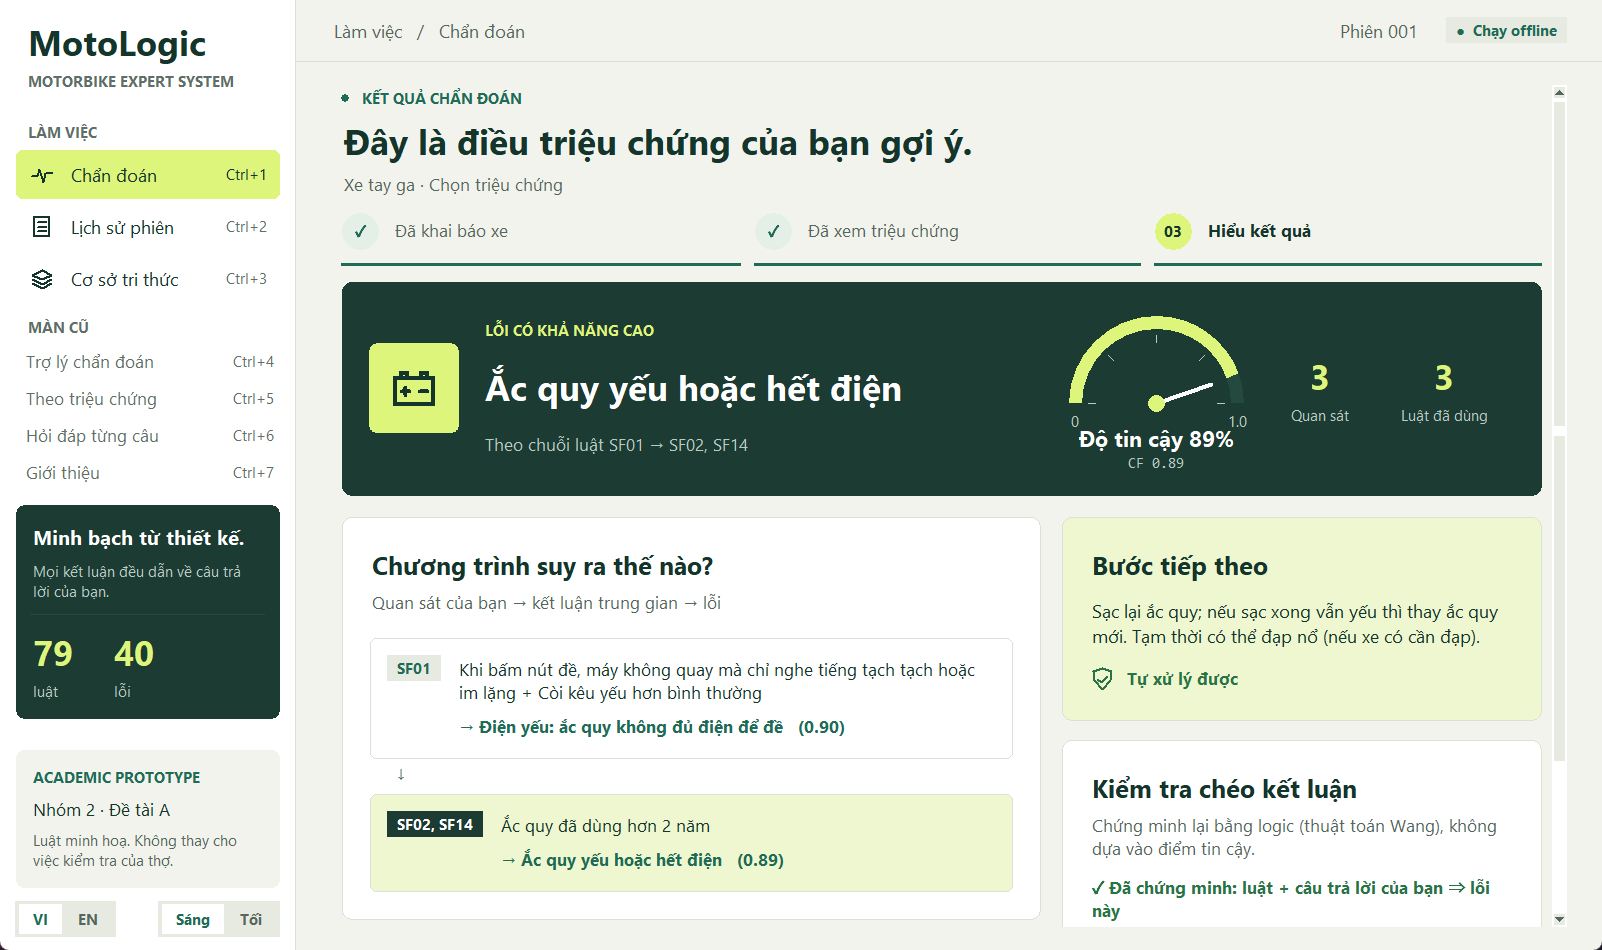
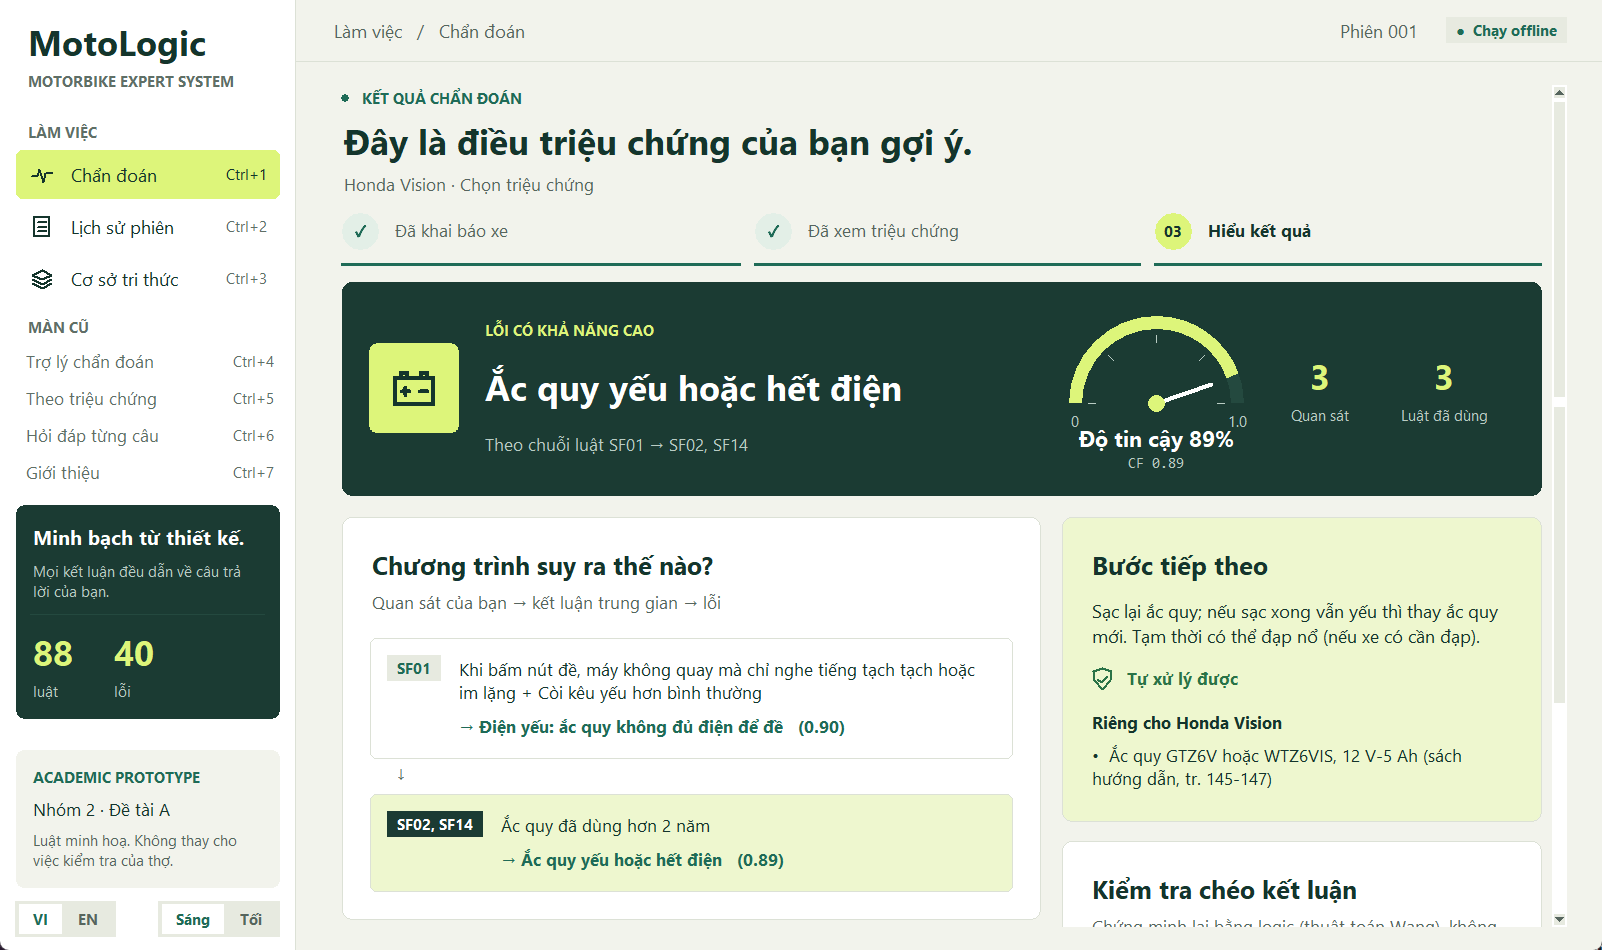
Giang v4: Ch3 part to about 180 words with the chapter conclusion, Ch5 under 300 words, MotoLogic screenshots retaken with the bike model

diff --git a/docs/progress/kieu_bao_giang.md b/docs/progress/kieu_bao_giang.md
@@ -46,6 +46,18 @@ Cập nhật lần cuối: 12/11/2026 (nhánh `feature/motologic`). Theo lịch 
 | B. 4 ảnh MotoLogic: `docs/report/figures/fig_motologic_1_setup.png` … `_4_result.png` | Xong |
 | C. Slide và lời thoại phần Forward + Wang theo số mới, kèm kịch bản demo SE01 và BT03 (`docs/slides/`) | Xong |
 
+## Phân công khuya 12/11 (PhanCong_Nhom2_12-11_v4.pdf), nhánh `feature/giang-v4`
+
+Làm trên main 13/11 (đã có PR #22 của Giang và nhánh dòng xe của Lâm, PR #23, #24). Số từ đếm theo `python tools/build_report.py`.
+
+| Việc | Trạng thái |
+|---|---|
+| G1. Ch3 `methodology_giang.md` ≈180 từ (gồm Chapter conclusion của Ch3), 1 hình; "confidence gauge"; conclusion dùng "rule-based chat" và nhắc 6 dòng xe | Xong: 3.y + 3.z + 3.w 183 từ trong bản Word, 1 hình `fig_cf_example.png`; số luật đổi 79 → 88 |
+| G2. Chụp lại `fig_motologic_*.png` bằng `tools/shots.py` cho khớp main | Xong: 4 ảnh vi, sáng, 1600×950; bước 1 có chọn Honda Vision, kết quả có khối "Riêng cho Honda Vision" |
+| G3. Ch5 `discussion.md` ≤300 từ; 5.2 thêm câu so sánh công bằng; 5.3 thêm giới hạn của chat và nguồn yếu của luật dòng xe | Xong: 298 từ trong bản Word; 5,5 câu khớp `assistant_results.md`. Số so sánh công bằng Giang đo lại trên main (36,3 câu khi backward đọc cùng mô tả; 22,2 câu, 28/30 khi dừng ở lỗi đầu tiên; 7/30 cuộc chạm giới hạn 15 câu). Chờ số K4 của Khoa, khác thì thay |
+| G4. Kéo main, chạy 3 cách có chọn dòng xe; Stepper ✓ hai lần; bước 1 phải cuộn mới thấy nút Bắt đầu | Xong: hai lỗi giao diện đã sửa từ PR #22 và vẫn đúng sau khi Lâm thêm chọn dòng xe. Ảnh 1600×950 (vi sáng, en tối) thấy đủ 7 lựa chọn xe, 3 cách và nút Bắt đầu. Chạy cả 3 cách qua trang MotoLogic (trong tiến trình, như `tools/shots.py`) với dòng xe chọn ở bước 1, 9 kịch bản MS01–MS09, vi và en: hỏi đáp từng câu 18/18, chọn triệu chứng 18/18, kể bằng lời 18/18 ra đúng lỗi. Test 192 OK (skipped=5) |
+| G5. Thử chat 5 cuộc với phanh, lốp, giảm xóc | Xong (bảng G3 ở mục v3 bên dưới), chạy lại trên main 13/11: 5/5 đúng lỗi, chỉ cuộc 3 đổi số |
+
 ## Phân công tối 12/11 (PhanCong_Nhom2_12-11_v3.pdf), nhánh `feature/giang-report-fixes`
 
 | Việc | Trạng thái |
@@ -73,7 +85,7 @@ Chạy bằng `chat.start` / `chat.respond` (giống khung chat). Người trả
 |---|---|---|---|---|
 | 1 | "phanh trước kêu ken két, má phanh nhìn mỏng lắm rồi"; "tại sao hỏi vậy?" | Đúng: đọc ra phanh kêu ken két và má phanh mỏng | Có: "tại sao" liệt kê luật TR01 của câu đang hỏi. Câu hỏi đầu (tăng ga máy rú) lạc sang truyền động | Má phanh mòn, 98%, BR02 → BR01, Wang ✓, 3 câu trả lời (BT01 đúng) |
 | 2 | "bóp phanh thấy mềm, phải bóp sâu mới ăn"; "còn khả năng nào?" | Sai: không nhận ra triệu chứng nào (chỉ có cụm "tay phanh mềm") | Một phần: "còn khả năng nào" trả lời đúng nhưng chưa có gì để xếp hạng; phải trả lời 11 câu mới tới tay phanh mềm và dầu phanh cũ | Dầu phanh cũ, 70%, BR07, Wang ✓ (BT04 đúng) |
-| 3 | "lốp sau cứ vài hôm lại xẹp"; "tại sao hỏi vậy?" | Một phần: đọc ra lốp non hơi, chưa đọc ra xì hơi nhanh | Có cho "tại sao"; nhưng hỏi 10 câu ở bộ phận khác trước khi hỏi "lốp xì hơi nhanh" và "thấy đinh" | Lốp bị thủng, 96%, TS05 → TS04, Wang ✓, 13 câu (BT08 đúng) |
+| 3 | "lốp sau cứ vài hôm lại xẹp"; "tại sao hỏi vậy?" | Một phần: đọc ra lốp non hơi, chưa đọc ra xì hơi nhanh | Có cho "tại sao"; nhưng hỏi 12 câu khác trước khi hỏi "lốp xì hơi nhanh" và "thấy đinh" | Lốp bị thủng, 95%, TS05 → TS04, Wang ✓, 14 câu (BT08 đúng; chạy lại trên main 13/11) |
 | 4 | "phuộc trước chảy dầu, phanh gấp thì đầu xe chúi xuống"; "phải làm gì?" | Đúng: dầu rỉ trên ống phuộc và phuộc mềm, chúi khi phanh | Có: "phải làm gì" trả cách xử lý và luật TS07. Nhưng sau đó vẫn hỏi 14 câu không liên quan | Phuộc trước rò dầu, 85%, TS07 (BT09 đúng) |
 | 5 | "the front tyre looks flat and the steering feels heavy"; "why?" (tiếng Anh) | Một phần: đọc ra lốp non hơi, không đọc ra tay lái nặng ("feels heavy") | Có: "why" liệt kê luật TR01; tự hỏi lại tay lái nặng ở câu thứ 6 | Lốp thiếu hơi, 85%, TS01, Wang ✓, 6 câu (BT07 đúng) |
 
@@ -81,7 +93,7 @@ Tóm tắt: 5/5 ra đúng lỗi; câu hỏi thêm (tại sao / còn gì / phải
 
 ## Kết quả hiện tại
 
-- Cơ sở tri thức: 73 triệu chứng, 9 trung gian, 40 lỗi, **79 luật**. `python src/kb.py`: 0 lỗi.
+- Cơ sở tri thức (main 13/11, có luật dòng xe): 79 triệu chứng, 9 trung gian, 40 lỗi, **88 luật**. `python src/kb.py`: 0 lỗi, 0 cảnh báo.
 - 30 kịch bản: top-1 30/30 với forward và backward chaining; Wang khớp forward chaining trên 30 kịch bản và 500 bộ ngẫu nhiên.
 
 ## Còn lại

diff --git a/docs/report/methodology_giang.md b/docs/report/methodology_giang.md
@@ -1,45 +1,40 @@
 # Methodology: forward chaining, certainty factors and Wang's check (draft)
 
-Author: Kieu Bao Giang. Draft for the final report, 12/11/2026, for Lâm to merge into Chapter 3.
-Limit for this part: about 180 words and 1 figure (PhanCong_Nhom2_12-11_v3). Section and figure numbers (3.y, 3.z) are fixed by Lâm when merging.
-Numbers: knowledge base of 79 rules and 40 faults; `python src/wang.py --scenarios --random 500`.
+Author: Kieu Bao Giang. Draft for the final report, 13/11/2026, for Lâm to merge into Chapter 3.
+Limit for this part: about 180 words including the Chapter 3 conclusion, and 1 figure (PhanCong_Nhom2_12-11_v4, G1). Section and figure numbers (3.y, 3.z) are fixed by Lâm when merging.
+Numbers: knowledge base of 79 symptoms, 40 faults and 88 rules; `python src/wang.py --scenarios --random 500`.
 
 MotoLogic screenshots (not in Chapter 3; for the slides or for Lâm's sections if needed):
 
-Retaken on 12/11 with `python tools/shots.py --lang=vi --mode=light --size=default` (1600×950).
+Retaken on 13/11 on main (with the bike-model picker) using `python tools/shots.py --lang=vi --mode=light --size=default` (1600×950).
 
-- `figures/fig_motologic_1_setup.png`: step 1, vehicle and the three ways to diagnose.
+- `figures/fig_motologic_1_setup.png`: step 1, Honda Vision chosen and the three ways to diagnose.
 - `figures/fig_motologic_2_guided.png`: step 2, step-by-step questions on the starting and fuel system.
 - `figures/fig_motologic_3_symptoms.png`: step 2, symptom checklist with three symptoms ticked.
-- `figures/fig_motologic_4_result.png`: result for SE01: confidence gauge, rule chain SF01 → SF02, SF14 and Wang's check.
+- `figures/fig_motologic_4_result.png`: result for a weak battery on a Honda Vision: confidence gauge, rule chain, the model's own specs and Wang's check.
 
-`figures/fig_wang_proof.png` (Wang's proof for SE01, 9 sequents) is no longer used in Chapter 3; keep it for the slides.
+`figures/fig_wang_proof.png` (Wang's proof for SE01, 9 sequents) is not used in Chapter 3; keep it for the slides.
 
 ## 3.y Forward chaining and certainty factors
 
-Forward chaining is data-driven: confirmed symptoms enter an agenda, every rule counts its premises
-not yet proved, and a rule whose count reaches zero fires and adds its conclusion to the agenda
-(PL-FC-ENTAILS? [Russell and Norvig, ch. 7]), in time linear in the size of the rules.
-
-Faults are ranked with MYCIN-style certainty factors on positive evidence. A rule passes on its own
-CF times the minimum CF of its premises; rules with the same conclusion combine as
-CF1 + CF2 × (1 − CF1), in dependency order, so an intermediate fact is complete before it is used.
-Faults with CF ≥ 0.20 are reported, best first (Figure 3.y.1).
+Forward chaining is data-driven: confirmed symptoms enter an agenda, each rule counts its unproved
+premises, and a rule whose count reaches zero fires and adds its conclusion (PL-FC-ENTAILS?
+[Russell and Norvig, ch. 7]). Faults are ranked with MYCIN-style certainty factors: a rule passes on
+its CF times the minimum CF of its premises, and rules with the same conclusion combine as
+CF1 + CF2 × (1 − CF1). Faults with CF ≥ 0.20 are reported, best first (Figure 3.y.1).
 
 ## 3.z Verification with Wang's algorithm
 
-Each rule becomes the formula (p1 ∧ … ∧ pk) → q, each "yes" answer an atom and each "no" answer a
-negated atom. Wang's prover decides whether "rules, answers ⇒ fault" is valid, using only the rules
-that can conclude the fault. Forward chaining is sound and complete for definite clauses, so with
-the threshold at 0 its faults must equal the faults Wang proves; they agree on all 30 scenarios and
-500 random answer sets.
+Each rule becomes (p1 ∧ … ∧ pk) → q, each "yes" an atom and each "no" a negated atom.
+Wang's prover decides whether "rules, answers ⇒ fault" is valid. Forward chaining is sound and
+complete for definite clauses, so at threshold 0 both must find the same faults; they agree on
+30 scenarios and 500 random answer sets.
 
 ## 3.w Chapter conclusion
 
-One knowledge base of 79 rules serves three ways to diagnose: backward chaining with "why" and
-"how", forward chaining with certainty factors checked by Wang's prover, and a chat assistant that
-asks only the most informative questions. The MotoLogic interface offers all three and always
-shows the rules behind an answer.
+One knowledge base of 88 rules, nine of them for six bike models, serves three ways
+to diagnose: backward chaining with "why" and "how", forward chaining with certainty factors checked
+by Wang's prover, and a rule-based chat. MotoLogic shows the rules behind every answer.
 
 ## Figure
 

diff --git a/docs/report/discussion.md b/docs/report/discussion.md
@@ -1,41 +1,44 @@
 # Chapter 5: Discussion (draft)
 
-Author: Kieu Bao Giang. Draft for the final report, 12/11/2026, for Lâm to merge.
+Author: Kieu Bao Giang. Draft for the final report, 13/11/2026, for Lâm to merge.
 Limit: at most 300 words and 1 figure. Numbers: [evaluation_results.md](evaluation_results.md) (Khoa),
-[assistant_results.md](assistant_results.md) (Lâm) and Khoa's re-run in [nguyen_nam_khoa.md](../progress/nguyen_nam_khoa.md)
-section 3 (K3), knowledge base of 79 rules.
+[assistant_results.md](assistant_results.md) (Lâm), knowledge base of 88 rules. The fair comparison in 5.2
+(36.3 questions when backward chaining reads the same description; 22.2 and 28/30 when it stops at the first
+proved fault; 7/30 assistant runs reach the 15-question cap) was re-measured by Giang on main on 13/11 with
+the same simulation as Khoa's section 3 in [nguyen_nam_khoa.md](../progress/nguyen_nam_khoa.md). Replace
+it with Khoa's K4 numbers if they differ.
 
 ## 5.1 Where the system went wrong
 
-All 30 scenarios give the expected fault first with both engines, and Wang's prover agreed with
-forward chaining on every scenario and on 500 random answer sets, so the errors came from the
+All 30 scenarios rank the expected fault first with both engines, and Wang's prover agrees with
+forward chaining on every scenario and 500 random answer sets, so the errors came from the
 knowledge base. Two cases failed the same way: an intermediate fact was derived, but every rule
-going on needed a symptom the rider did not have, so no fault was reported (Figure 5.1.1). A
-lower-CF fallback rule from each such fact to its most common fault (for example TS15) fixed both;
-without these rules top-1 drops to 28/30.
+going on needed a symptom the rider did not have (Figure 5.1.1). A lower-CF fallback rule to the
+most common fault (for example TS15) fixed both; without these rules top-1 drops to 28/30.
 
 ## 5.2 Fewer questions or more accuracy
 
 Backward chaining over every fault asks 39.7 questions and is right 30/30; choosing the part first
-cuts this to 9.0. The assistant asks 5.3 questions and is right 30/30 on descriptions used to write
+cuts this to 9.0. The assistant asks 5.5 questions and is right 30/30 on descriptions used to write
 its phrase list, but 8/10 (Vietnamese) and 7/10 (English) with about 11 questions on ten held-out
 ones. The comparison is not equal: the assistant does not count what it reads, stops once the
-leading fault is proved and is capped at 15 questions; backward chaining that reads the same
-description still asks 36.6, but stopping at the first proved fault gives 22.2 (28/30).
-Step-by-step questions therefore stay the recommended method.
+leading fault is proved and is capped at 15 questions (reached in 7/30). Reading the same
+description, backward chaining still asks 36.3; stopping at the first proved fault gives 22.2
+(28/30). Most of the gap comes from stopping early; step-by-step questions stay recommended.
 
 ## 5.3 Limitations
 
 The rules are definite clauses, so a "no" answer cannot lower a fault's CF: in ET05 "low coolant"
-stays second (CF 0.45) although the coolant level is fine. The chat understands only phrasings in
-its phrase list: "tay phanh mềm" (soft brake lever) is read, "bóp phanh thấy mềm" is not. The CFs
-are the authors' estimates and the scenarios were written by the team.
+stays second (CF 0.45) although the coolant is fine. The chat understands only phrasings in
+its phrase list: "tay phanh mềm" (soft brake lever) is read, "bóp phanh thấy mềm" is not. The
+bike-model rules rest on weak sources (news articles and repair-shop websites), and the CFs and
+scenarios were written by the team.
 
 ## 5.4 Chapter conclusion
 
-The engines are correct with respect to the rules; the remaining errors and trade-offs come from
-what the rules and the phrase list can express. Negative evidence, a larger phrase list and real
-repair cases are the next steps.
+The engines are correct with respect to the rules; the remaining errors come from what the rules
+and the phrase list can express. Negative evidence, a larger phrase list and real repair cases come
+next.
 
 ## Figure
 

diff --git a/docs/report/README.md b/docs/report/README.md
@@ -75,7 +75,7 @@ Lưu ảnh vào `figures/`, tên `fig_<nội_dung>.png`. Biểu đồ và sơ đ
 | 3 | Cấu trúc luật và các lớp triệu chứng → trung gian → lỗi | Lâm | Chưa |
 | 3 | Màn Trợ lý chẩn đoán đang hỏi, có thanh khả năng | Lâm | Chưa |
 | 3 | Ví dụ forward chaining tính CF | Giang | Có: `fig_cf_example.png` (`python src/report_figures.py`) |
-| 3 | Màn hình MotoLogic: kết quả SE01 có đồng hồ độ tin cậy (confidence gauge) và Wang | Giang | Có, chụp lại 12/11: `fig_motologic_4_result.png` (thêm `fig_motologic_1_setup`, `_2_guided`, `_3_symptoms`); không tính vào 1 hình của phần Giang |
+| 3 | Màn hình MotoLogic: kết quả SE01 có đồng hồ độ tin cậy (confidence gauge) và Wang | Giang | Có, chụp lại 13/11 (có chọn dòng xe): `fig_motologic_4_result.png` (thêm `fig_motologic_1_setup`, `_2_guided`, `_3_symptoms`); không tính vào 1 hình của phần Giang |
 | 3 | Ví dụ cây chứng minh Wang | Giang | Có nhưng bỏ khỏi Ch3 (phần Giang còn 1 hình); dùng cho slide: `fig_wang_proof.png` |
 | 3 | Luồng backward chaining hỏi từng câu | Khoa | Có: `fig_backward_flow.png` (`python src/evaluate.py --charts`) |
 | 3 | Màn hình Hỏi đáp, đang mở Why | Khoa | Có: `fig_backward_screen_why.png` (BT10, câu 8) |
